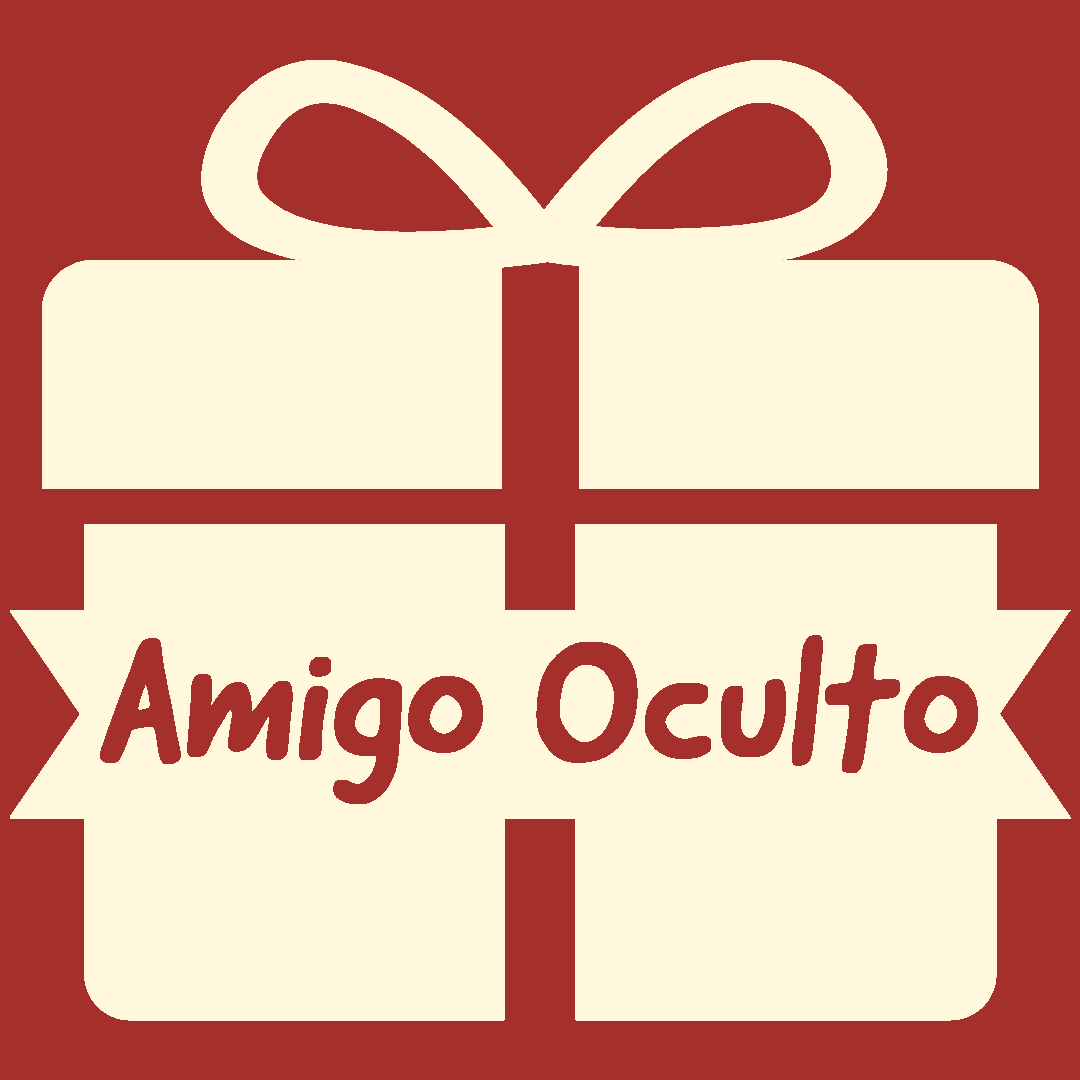
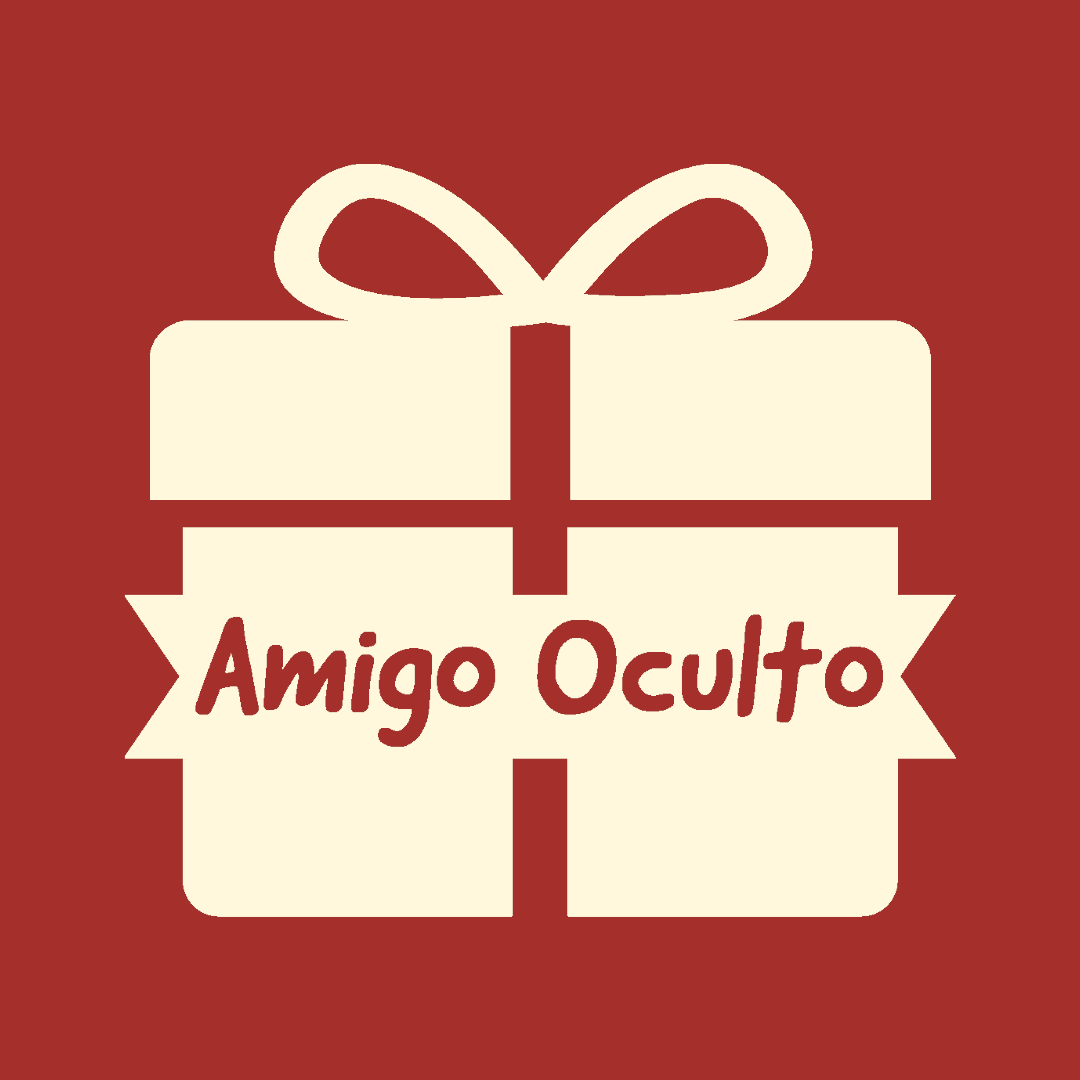
Correções em ícones

diff --git a/src/components/Header.js b/src/components/Header.js
@@ -6,7 +6,7 @@ export default class Header extends Component {
   render() {
     return (
       <View style={styles.Container}>
-        <Image source={require('../../assets/icon.png')} style={{ height: 150, width: 150 }} />
+        <Image source={require('../../assets/adaptive-icon.png')} style={{ height: 150, width: 150 }} />
         {/* <Text style={styles.Titulo}> {this.props.titulo} </Text> */}
         <Text style={styles.Slogan}> {this.props.slogan} </Text>
       </View>
